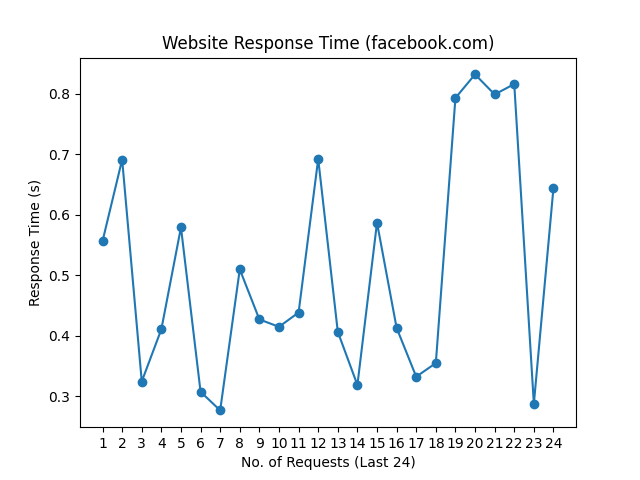
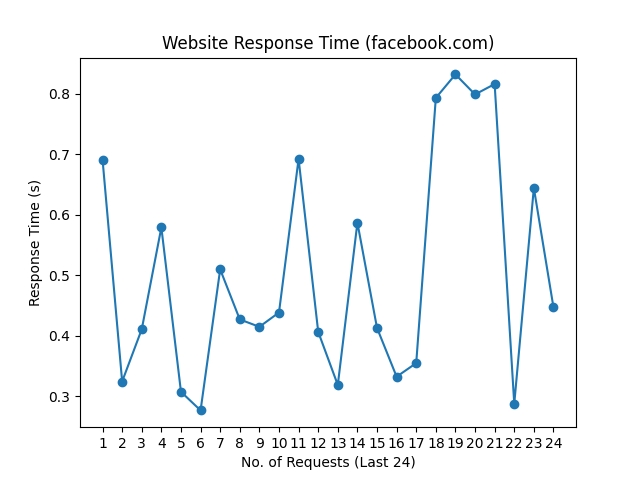
update README.md, history and graph

Changed region(s): [[0.1562, 0.125, 0.875, 0.875]]

diff --git a/README.md b/README.md
@@ -1,10 +1,10 @@
 # Web Monitoring
 
-Last Checked: 13/09/2023 09:00
+Last Checked: 14/09/2023 08:58
 
 | Website | Response Time (s) | Status | Avg Uptime (%) |
 |---------|-------------------|--------|----------------|
 | www.thiswebsiteisdown.net | 0 <br> <img src="graph/thiswebsiteisdown.net.png" alt="Graph" width="200" height="200">  | ❌ Down | 0.00 |
-| www.netflix.com | 1.646604 <br> <img src="graph/netflix.com.png" alt="Graph" width="200" height="200">  | ✅ Up | 100.00 |
-| www.google.com | 0.424298 <br> <img src="graph/google.com.png" alt="Graph" width="200" height="200">  | ✅ Up | 100.00 |
-| www.facebook.com | 0.644091 <br> <img src="graph/facebook.com.png" alt="Graph" width="200" height="200">  | ✅ Up | 100.00 |
+| www.netflix.com | 1.156818 <br> <img src="graph/netflix.com.png" alt="Graph" width="200" height="200">  | ✅ Up | 100.00 |
+| www.google.com | 0.102914 <br> <img src="graph/google.com.png" alt="Graph" width="200" height="200">  | ✅ Up | 100.00 |
+| www.facebook.com | 0.446964 <br> <img src="graph/facebook.com.png" alt="Graph" width="200" height="200">  | ✅ Up | 100.00 |
